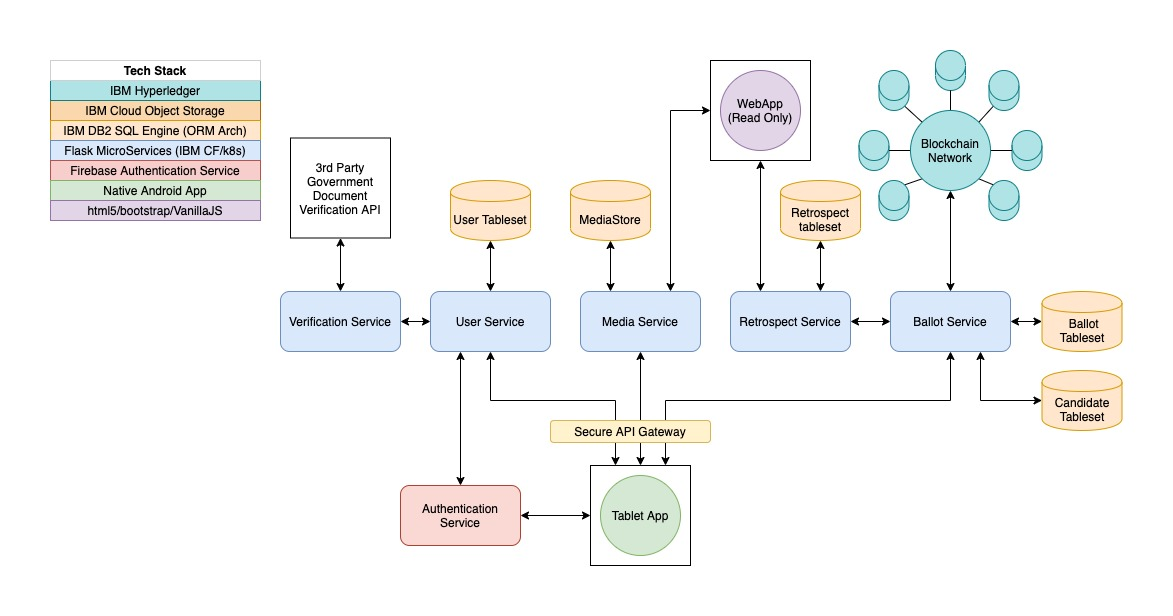
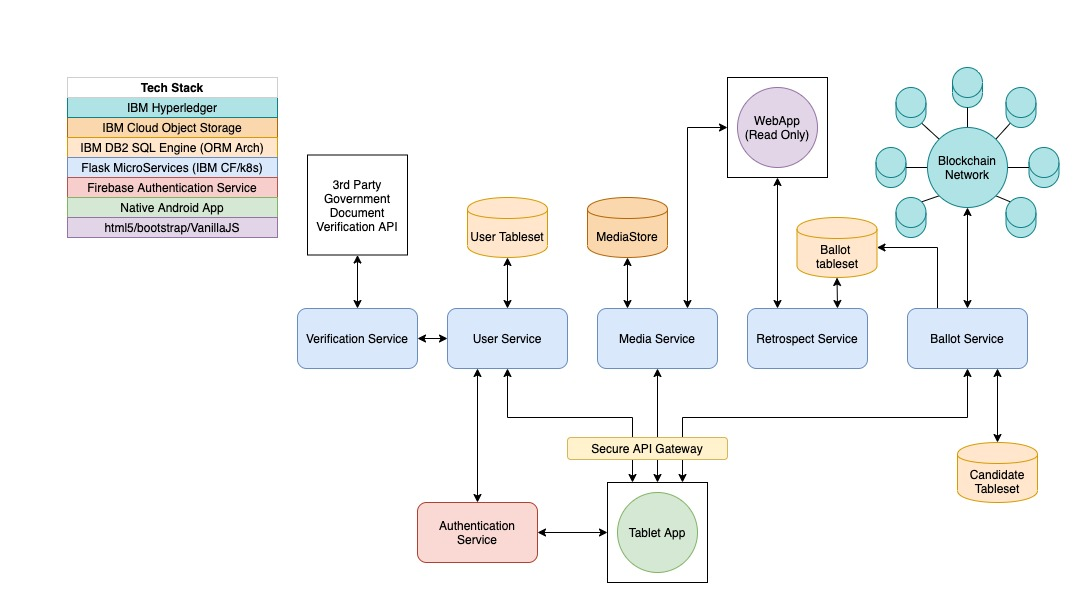
added retrospect service base and architecture

Changed region(s): [[0.0308, 0.0603, 1.0, 0.9648]]

diff --git a/backend/retrospect/models.py b/backend/retrospect/models.py
@@ -1,0 +1,111 @@
+#!/usr/bin/env python3
+# -*- coding: utf-8 -*-
+"""
+Created on Mon Nov 2 11:06:59 2020
+
+@author: arjun
+"""
+
+# apps.members.models
+from flask_sqlalchemy import SQLAlchemy
+import datetime
+
+
+db = SQLAlchemy()
+
+
+class Ballot(db.Model):
+    # table names are autoamtically identified by converting class name to snakecase
+    id = db.Column(db.Integer, primary_key=True, autoincrement=True)
+    user_id = db.Column(db.Integer)
+    candidate_id = db.Column(db.Integer)
+    image_url = db.Column(db.String(255))
+    transaction_id = db.Column(db.String)
+    created = db.Column(db.DateTime, default=datetime.datetime.utcnow)
+
+
+    def serialize(self):
+        serialized = {
+            'id' : self.id,
+            'user_id' : self.user_id,
+            'candidate_id' : self.candidate_id,
+            'image_url' : self.image_url,
+            'transaction_id' : self.transaction_id,
+            'created' : str(self.created)
+        }
+        return serialized
+
+    def save(self, commit=True):
+            db.session.add(self)
+            if(commit):
+                db.session.commit()
+            return self
+
+
+    def delete(self, commit=True):
+        db.session.delete(self)
+        if(commit):
+            db.session.commit()
+        return self
+
+
+
+class Candidate(db.Model):
+    # table names are autoamtically identified by converting class name to snakecase
+    id = db.Column(db.Integer, primary_key=True, autoincrement=True)
+    name = db.Column(db.String(255))
+    image_url = db.Column(db.String(255))
+    constituency_id = db.Column(db.Integer)
+    created = db.Column(db.DateTime, default=datetime.datetime.utcnow)
+
+
+    def serialize(self):
+        serialized = {
+            'id' : self.id,
+            'name' : self.user_id,
+            'image_url' : self.image_url,
+            'constituency_id' : self.constituency_id,
+            'created' : str(self.created)
+        }
+        return serialized
+
+    def save(self, commit=True):
+            db.session.add(self)
+            if(commit):
+                db.session.commit()
+            return self
+
+
+    def delete(self, commit=True):
+        db.session.delete(self)
+        if(commit):
+            db.session.commit()
+        return self
+
+
+
+class Constituency(db.Model):
+    # table names are autoamtically identified by converting class name to snakecase
+    id = db.Column(db.Integer, primary_key=True, autoincrement=True)
+    name = db.Column(db.String(255), nullable=False)
+
+    def serialize(self):
+        serialized = {
+            'id' : self.id,
+            'name' : self.name,
+        }
+        return serialized
+
+
+    def save(self, commit=True):
+            db.session.add(self)
+            if(commit):
+                db.session.commit()
+            return self
+
+
+    def delete(self, commit=True):
+        db.session.delete(self)
+        if(commit):
+            db.session.commit()
+        return self

diff --git a/backend/retrospect/main.py b/backend/retrospect/main.py
@@ -1,0 +1,44 @@
+#!/usr/bin/env python3
+# -*- coding: utf-8 -*-
+"""
+Created on Sat Sep 12 11:06:59 2020
+
+@author: arjun
+"""
+
+import logging
+# Imports the Google Cloud client library
+
+from flask import Flask, request
+from models import db, Ballot
+import json
+import traceback
+
+
+
+app = Flask(__name__)
+app.config['SQLALCHEMY_DATABASE_URI'] = "mysql+pymysql://root:root@127.0.0.1:3306/evdb"
+
+db.init_app(app)
+
+with app.app_context():
+    db.create_all()
+
+
+
+
+@app.route('/')
+def hello():
+    return 'Retrospect Service is active'
+
+
+@app.errorhandler(500)
+def server_error(e):
+    # Log the error and stacktrace.
+    logging.exception('An error occurred during a request.')
+    return 'An internal error occurred.', 500
+# [END app]
+
+
+if __name__ =="__main__":
+    app.run(debug=True,port=5003)
